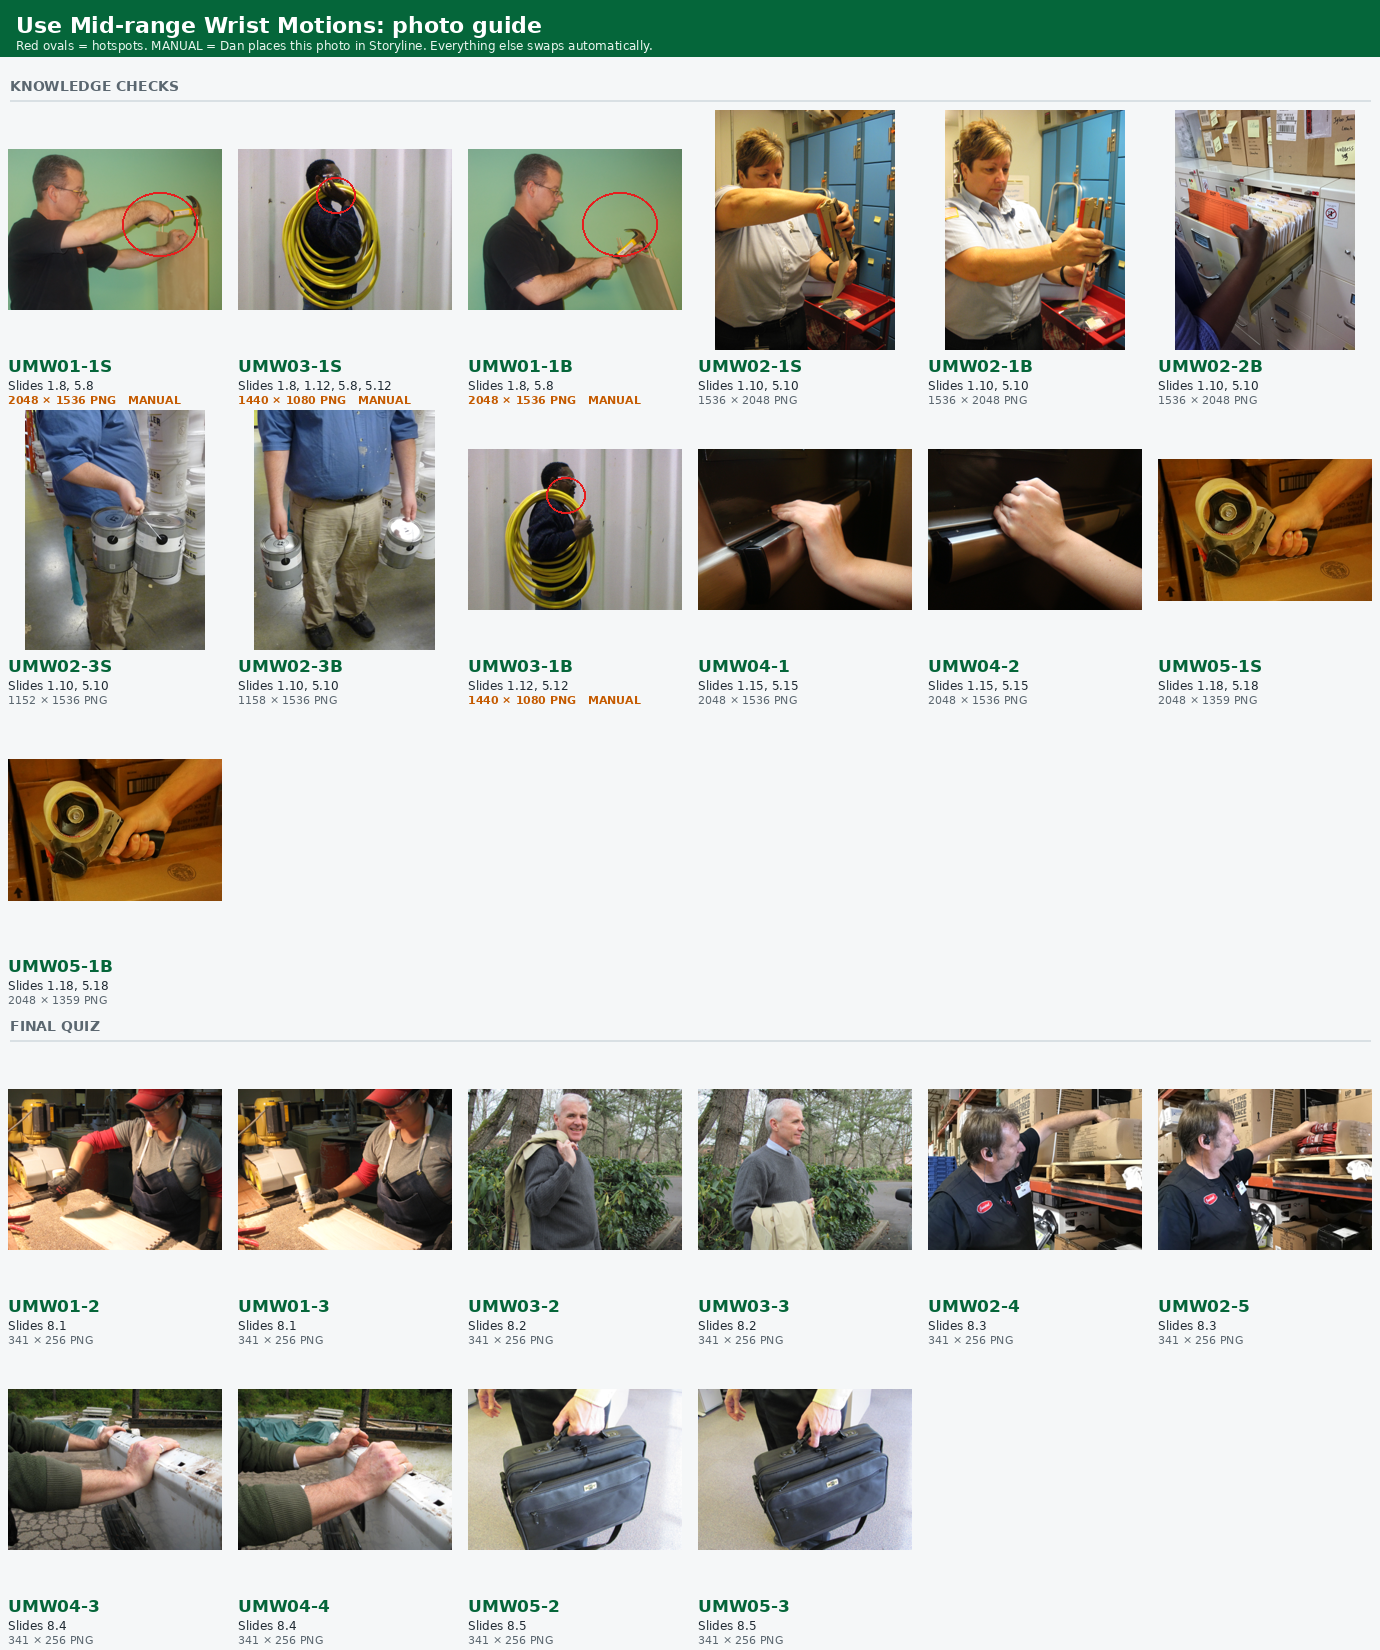
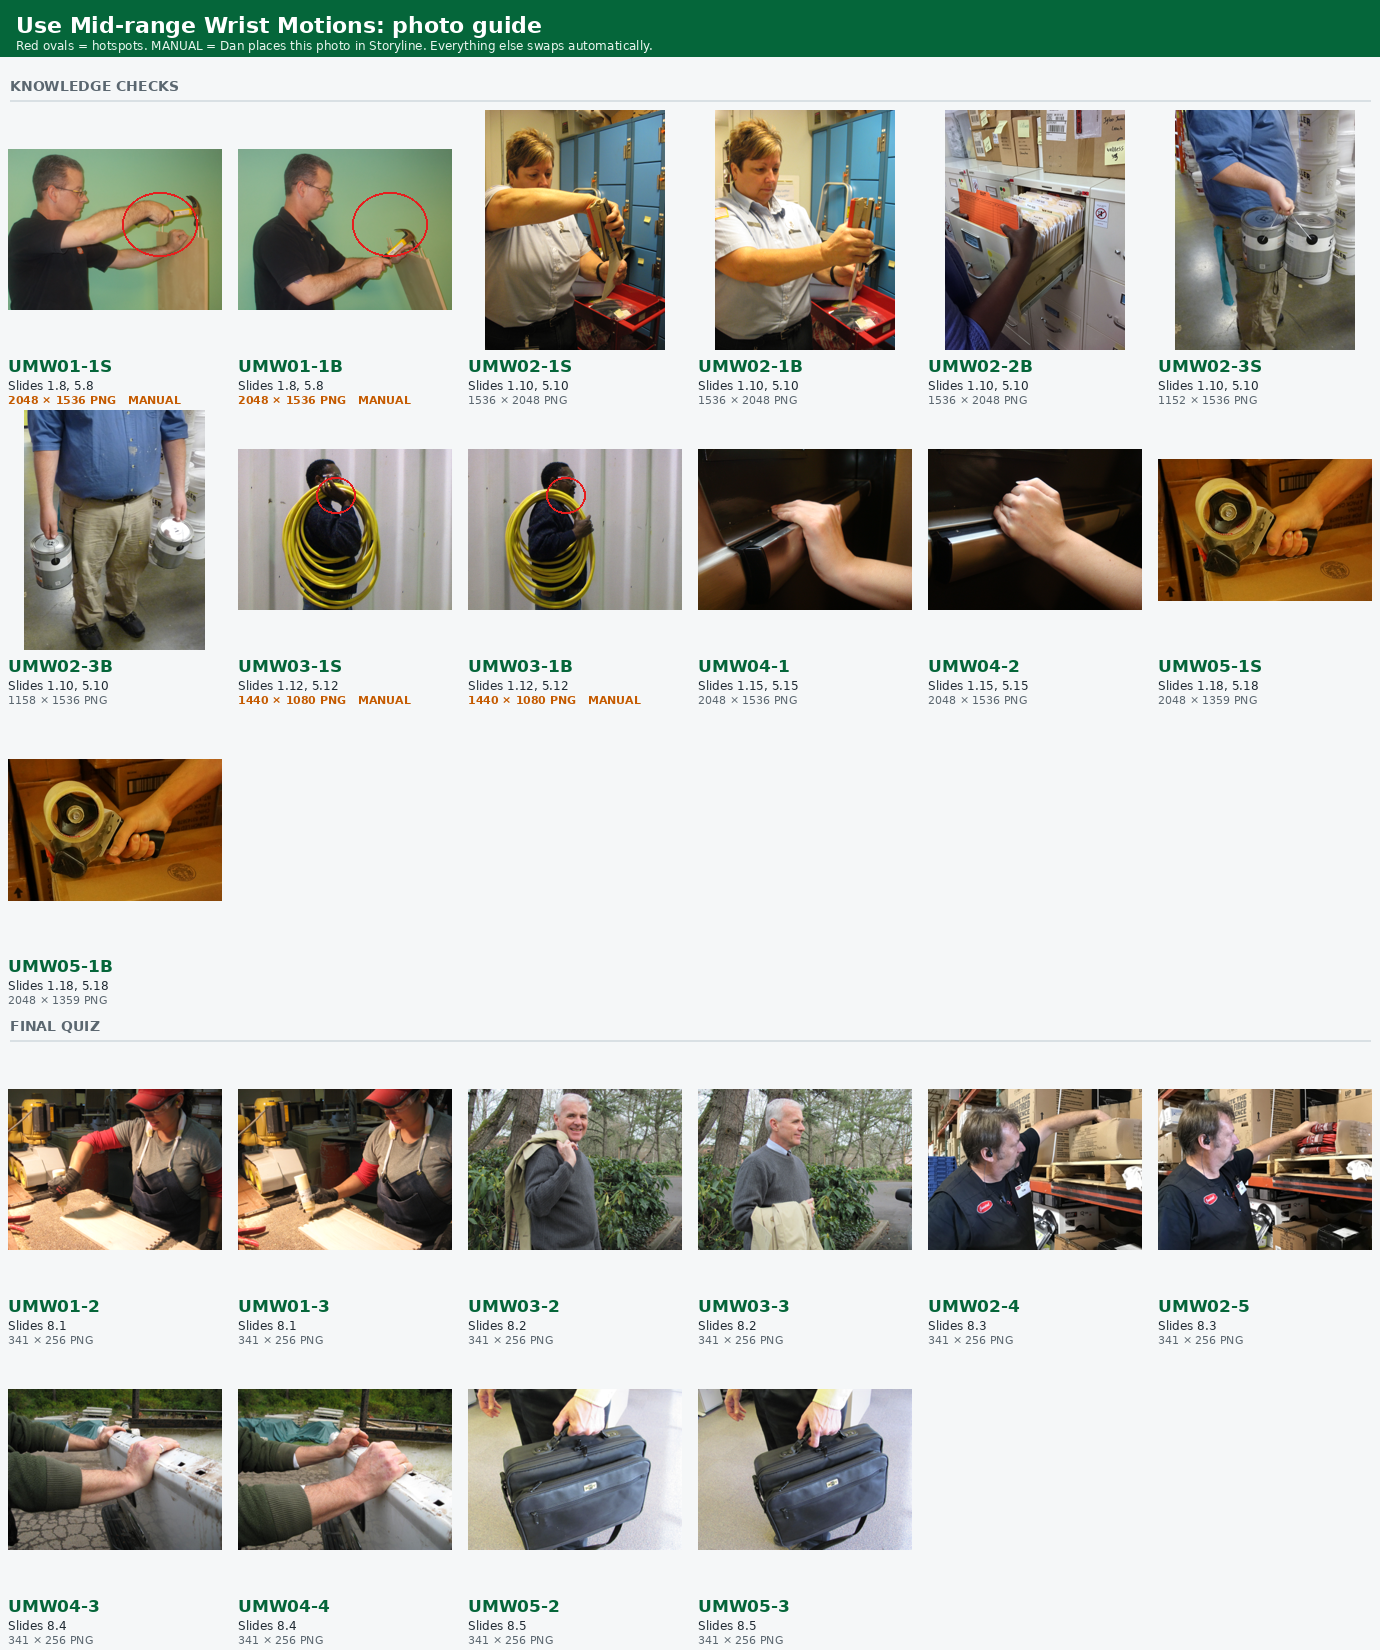
added LSB

Changed region(s): [[0.1558, 0.0618, 0.6543, 0.2473], [0.0, 0.2164, 0.3428, 0.4327], [0.6855, 0.0618, 0.9971, 0.2164]]

diff --git a/js/workspace.js b/js/workspace.js
@@ -233,14 +233,17 @@ function draw() {
     ctx.lineWidth = 2.5;
     ctx.setLineDash([7, 5]);
     for (const h of view.row.hotspots) {
-      ctx.strokeStyle = 'rgba(0,0,0,0.55)'; // dark halo so the ovals show on light photos too
-      ctx.beginPath();
-      ctx.ellipse(fx + (h.x + h.w / 2) * fw, fy + (h.y + h.h / 2) * fh, h.w / 2 * fw + 1.5, h.h / 2 * fh + 1.5, 0, 0, Math.PI * 2);
-      ctx.stroke();
+      const hx = fx + h.x * fw, hy = fy + h.y * fh, hw = h.w * fw, hh = h.h * fh;
+      const outline = grow => {
+        ctx.beginPath();
+        if (h.shape === 'rect') ctx.rect(hx - grow, hy - grow, hw + grow * 2, hh + grow * 2);
+        else ctx.ellipse(hx + hw / 2, hy + hh / 2, hw / 2 + grow, hh / 2 + grow, 0, 0, Math.PI * 2);
+        ctx.stroke();
+      };
+      ctx.strokeStyle = 'rgba(0,0,0,0.55)'; // dark halo so the outline shows on light photos too
+      outline(1.5);
       ctx.strokeStyle = '#FF3B3B';
-      ctx.beginPath();
-      ctx.ellipse(fx + (h.x + h.w / 2) * fw, fy + (h.y + h.h / 2) * fh, h.w / 2 * fw, h.h / 2 * fh, 0, 0, Math.PI * 2);
-      ctx.stroke();
+      outline(0);
     }
     ctx.restore();
   }

diff --git a/js/batch.js b/js/batch.js
@@ -33,11 +33,14 @@ const TEMPLATE_FIELDS = ['code', 'slides', 'your_photo', 'width', 'height'];
 /** Slide numbers like "1.10". Reading them as text means Excel can't turn 1.10 into 1.1. */
 const parseSlides = s => (String(s || '').match(/\d+\.\d+/g) || []);
 
-/** "x,y,w,h;x,y,w,h" as fractions of the image. */
+/** "x,y,w,h;r:x,y,w,h" as fractions of the image. Plain = oval, "r:" = rectangle. */
 function parseHotspots(s) {
-  return String(s || '').split(';').map(part => part.split(',').map(Number))
-    .filter(v => v.length === 4 && v.every(Number.isFinite))
-    .map(([x, y, w, h]) => ({ x, y, w, h }));
+  return String(s || '').split(';').map(part => {
+    part = part.trim();
+    const rect = part.startsWith('r:');
+    const v = (rect ? part.slice(2) : part).split(',').map(Number);
+    return v.length === 4 && v.every(Number.isFinite) ? { shape: rect ? 'rect' : 'oval', x: v[0], y: v[1], w: v[2], h: v[3] } : null;
+  }).filter(Boolean);
 }
 
 export function parseCsv(text) {

diff --git a/index.html b/index.html
@@ -98,7 +98,7 @@
         <button class="btn zbtn" id="zIn" title="Zoom in">+</button>
       </div>
       <div class="meta" id="zInfo" style="margin-top:6px"></div>
-      <div id="cHot" class="note warn" hidden>The red ovals are this slide's clickable hotspots. Line the matching body parts up inside them. If they won't line up, crop it the best you can and Dan will adjust the hotspots.</div>
+      <div id="cHot" class="note warn" hidden>The red outlines are this slide's clickable hotspots. Line the matching body parts up inside them. If they won't line up, crop it the best you can and Dan will adjust the hotspots.</div>
       <div id="cWarn" class="note warn" hidden></div>
       <h3>Tips</h3>
       <div class="keys">

diff --git a/tools/build_template.py b/tools/build_template.py
@@ -9,6 +9,8 @@ cfg = json.load(open(sys.argv[1]))
 PKG = cfg['pkg']
 TARGETS = [tuple(map(int, s.split('.'))) for s in cfg['targets']]
 CODES = {(n, s): c for n, s, c in cfg['codes']}
+# hidden references to a picture's original image (left behind by Change Picture); never shown
+IGNORE = {(n, s) for n, s in cfg.get('ignore', [])}
 
 ESC = {'n': '\n', 'r': '\r', 't': '\t', 'b': '\b', 'f': '\f', 'v': '\v', '0': '\0'}
 def unjs(s):
@@ -72,12 +74,15 @@ def positioned(node, ox=0, oy=0):
     elif isinstance(node, list):
         for v in node: yield from positioned(v, ox, oy)
 
-def ovals(sd):
+def hotspot_shapes(sd):
+    """Every oval and rectangle hotspot on the slide, as (shape, x, y, w, h)."""
     out = []
     for o, x, y in positioned(sd.get('slideLayers', [])):
         dat = o.get('data') if isinstance(o.get('data'), dict) else {}
         vd = dat.get('vectorData') if isinstance(dat.get('vectorData'), dict) else None
-        if vd and str(vd.get('altText', '')).startswith('Oval Hotspot'): out.append((x, y, o['width'], o['height']))
+        alt = str((vd or {}).get('altText', ''))
+        if alt.startswith('Oval Hotspot'): out.append(('o', x, y, o['width'], o['height']))
+        elif alt.startswith('Rectangular Hotspot'): out.append(('r', x, y, o['width'], o['height']))
     return out
 
 rows = {}
@@ -85,18 +90,21 @@ missing_codes = []
 for key in TARGETS:
     s, sd = slides[key]
     lab = f'{key[0]}.{key[1]}'
-    hs = ovals(sd)
+    hs = hotspot_shapes(sd)
     for o, x, y in positioned(sd.get('slideLayers', [])):
         for im in o.get('imagelib', []) or []:
             aid = im['assetId']
             if not is_photo(aid): continue
+            if (im.get('altText', ''), lab) in IGNORE: continue
             r = rows.setdefault(('a', aid), {'slides': [], 'aid': aid, 'alt': im.get('altText', ''), 'hs': {}, 'flat': False})
             if lab not in r['slides']: r['slides'].append(lab)
             W, H = o['width'], o['height']
-            for hx, hy, hw, hh in hs:
+            for shape, hx, hy, hw, hh in hs:
                 cx, cy = hx + hw / 2, hy + hh / 2
-                if x <= cx <= x + W and y <= cy <= y + H:
-                    r['hs'].setdefault(lab, []).append(tuple(round(v, 4) for v in ((hx - x) / W, (hy - y) / H, hw / W, hh / H)))
+                if not (x <= cx <= x + W and y <= cy <= y + H): continue
+                # a rectangle covering most of the photo just makes the whole photo clickable; not a body target
+                if shape == 'r' and hw * hh >= 0.5 * W * H: continue
+                r['hs'].setdefault(lab, []).append((shape,) + tuple(round(v, 4) for v in ((hx - x) / W, (hy - y) / H, hw / W, hh / H)))
         # pictures Storyline flattened into Shape*.png (effects baked in); the original photo is in zoomdata
         dat = o.get('data') if isinstance(o.get('data'), dict) else {}
         h5 = dat.get('html5data') or {}
@@ -117,9 +125,10 @@ for r in rows.values():
         print('WARNING: no original photo found for flattened image', r['alt'], r['slides']); continue
     sets = {tuple(sorted(v)) for v in r['hs'].values()}
     if len(sets) > 1: print('WARNING: hotspots differ between slides for', r['alt'], list(r['hs']))
-    r['hsstr'] = ';'.join(','.join(map(str, f)) for f in (next(iter(sets)) if sets else []))
-    r['code'] = CODES.get((r['alt'], r['slides'][0]))
-    if not r['code']: missing_codes.append((r['alt'], r['slides'][0])); continue
+    # oval: "x,y,w,h"   rectangle: "r:x,y,w,h"  (fractions of the image)
+    r['hsstr'] = ';'.join(('r:' if f[0] == 'r' else '') + ','.join(map(str, f[1:])) for f in (next(iter(sets)) if sets else []))
+    r['code'] = CODES.get((os.path.basename(assets[r['aid']]['url']), r['slides'][0])) or CODES.get((r['alt'], r['slides'][0]))
+    if not r['code']: missing_codes.append((r['alt'], os.path.basename(assets[r['aid']]['url']), r['slides'][0])); continue
     r['file'] = file_of(r['aid'])
     r['w'], r['h'] = real_size(r['aid'])
     r['fmt'] = 'png' if r['file'].lower().endswith('.png') else 'jpg'
@@ -157,7 +166,7 @@ height = HEAD + sum(SEC + ((len(rs) + cols - 1) // cols) * CELL for _, rs in sec
 sheet = Image.new('RGB', (cols * TW, height), (245, 247, 248)); dr = ImageDraw.Draw(sheet)
 dr.rectangle([0, 0, cols * TW, HEAD - 14], fill=(5, 102, 58))
 dr.text((16, 12), f"{cfg['title']}: photo guide", fill='white', font=F(22, True))
-dr.text((16, 38), "Red ovals = hotspots. MANUAL = Dan places this photo in Storyline. Everything else swaps automatically.", fill=(234, 246, 239), font=F(12))
+dr.text((16, 38), "Red outlines = hotspots. MANUAL = Dan places this photo in Storyline. Everything else swaps automatically.", fill=(234, 246, 239), font=F(12))
 y0 = HEAD
 for title, rs in sections:
     dr.text((10, y0 + 8), title.upper(), fill=(91, 103, 112), font=F(14, True))
@@ -168,8 +177,10 @@ for title, rs in sections:
         x = (i % cols) * TW; y = y0 + (i // cols) * CELL
         px = x + (TW - pic.width) // 2; py = y + (TH - 10 - pic.height) // 2; sheet.paste(pic, (px, py))
         for f in filter(None, r['hsstr'].split(';')):
-            a, b, c, e = map(float, f.split(','))
-            dr.ellipse([px + a * pic.width, py + b * pic.height, px + (a + c) * pic.width, py + (b + e) * pic.height], outline=(230, 30, 30), width=2)
+            rect = f.startswith('r:')
+            a, b, c, e = map(float, f[2:].split(',') if rect else f.split(','))
+            box = [px + a * pic.width, py + b * pic.height, px + (a + c) * pic.width, py + (b + e) * pic.height]
+            (dr.rectangle if rect else dr.ellipse)(box, outline=(230, 30, 30), width=2)
         dr.text((x + 8, y + TH - 4), r['code'], fill=(5, 102, 58), font=F(17, True))
         dr.text((x + 8, y + TH + 18), f"Slides {', '.join(r['slides'])}", fill=(31, 42, 51), font=F(12))
         dr.text((x + 8, y + TH + 33), f"{r['w']} × {r['h']} {r['fmt'].upper()}" + ("   MANUAL" if r['manual'] else ""),
